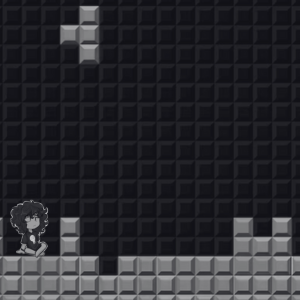
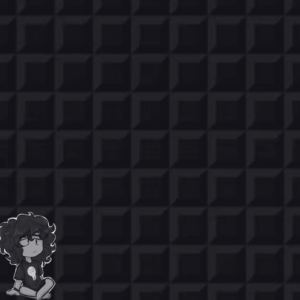
deouracion

Changed region(s): [[0.0, 0.66, 1.0, 1.0], [0.18, 0.0, 0.33, 0.24]]

diff --git a/tetris.py b/tetris.py
@@ -770,7 +770,7 @@ Salida: El juego tetris de forma 'funcional'
 Restricciones: Las necesarias para el correcto funcionamiento
 """
 def ventanaTetris(ventana, nombreArchivo):
-    global tetromino, listaTetrominos
+    global tetromino, listaTetrominos, rotaciones
 
     ventana.destroy()
     consola = Tk()
@@ -795,7 +795,7 @@ def ventanaTetris(ventana, nombreArchivo):
     imagenFondo = ImageTk.PhotoImage(imagenFondo)
 
     imagenFondoTetris = Image.open("fondoTetris.png")
-    imagenFondoTetris = imagenFondoTetris.resize((446, 358))
+    imagenFondoTetris = imagenFondoTetris.resize((446, 335))
     imagenFondoTetris = ImageTk.PhotoImage(imagenFondoTetris)
 
     canvasPantalla = Canvas(canvasGameboy, width=465, height=366, bg="pink")
@@ -842,7 +842,7 @@ def ventanaTetris(ventana, nombreArchivo):
         coordenadas = posicionImagenes()
         listaArchivo = archivoALista(nombreArchivo)
         listaArchivo = eliminarSaltosDeLinea(listaArchivo)
-        canvasPantalla.create_image(19, 8, anchor="nw", image=imagenFondoTetris)
+        canvasPantalla.create_image(19, 16, anchor="nw", image=imagenFondoTetris)
         print(coordenadas[0][0])
         for i in range(largoLista(listaArchivo)):
             for j in range(largoLista(listaArchivo[0])):
@@ -865,7 +865,7 @@ def ventanaTetris(ventana, nombreArchivo):
                 elif listaArchivo[i][j] == "8": 
                      canvasPantalla.create_image(coordenadas[i][j][0], coordenadas[i][j][1], anchor="center", image=listaImagenesBloques[7])
     imprimirArchivoTetris()
-    # matrizIdentificadores = crearMatriz()
+
 
     """
     Nombre: crearTetromino
@@ -1209,6 +1209,38 @@ def ventanaTetris(ventana, nombreArchivo):
                 return True
         return False
     
+    
+    def rotar():
+        if listaTetrominos[0] == 2:
+            return rotarI()
+        elif listaTetrominos[0] == 3:
+            return rotarL()
+        elif listaTetrominos[0] == 4:
+            return rotarJ()
+        elif listaTetrominos[0] == 5:
+            return rotarT()
+        elif listaTetrominos[0] == 6:
+            return rotarZ()
+        else:
+            return rotarU()
+    
+
+    def rotarI():
+                        x2 = x1 + 1
+                x3 = x2  + 1
+                x4 = x3 + 1
+
+                y1 += 2
+                y2 = y1
+                y3 = y1
+                y4 = y1
+                if validarMovimiento(nombreArchivo,tetromino):
+                    canvasPantalla.coords(tetromino[1], coordenadas[x1][y1][0] / 2, coordenadas[x1][y1][1] / 2)
+                    canvasPantalla.coords(tetromino[2], coordenadas[x2][y2][0] / 2, coordenadas[x2][y2][1] / 2)
+                    canvasPantalla.coords(tetromino[3], coordenadas[x3][y3][0] / 2, coordenadas[x3][y3][1] / 2)
+                    canvasPantalla.coords(tetromino[4], coordenadas[x4][y4][0] / 2, coordenadas[x4][y4][1] / 2)
+
+
     consola.bind("<KeyPress-w>", lambda evento: rotar())
     consola.bind("<KeyPress-s>", lambda evento: moverAbajo())
     consola.bind("<KeyPress-d>", lambda evento: moverDerecha()) 
@@ -1216,15 +1248,6 @@ def ventanaTetris(ventana, nombreArchivo):
 
     consola.protocol("WM_DELETE_WINDOW", lambda : borrarArchivo(nombreArchivo, consola))
     consola.mainloop()
-
-    # def rotar(canvasPantalla, tetromino, nombreArchivo): # mejorar
-    #     global rotaciones, x1, x2, x3, x4, x5, y1, y2, y3, y4, y5
-    #     eliminarAntiguaPosicionArchivo(nombreArchivo, tetromino, x1,x2,x3,x4,x5,y1,y2,y3,y4,y5)
-        
-    #     posicionesX = [x1,x2,x3,x4,x5]
-    #     posicionesY = [y1,y2,y3,y4,y5]
-    #     if y1 >= 10 or y2 >= 10 or y3 >= 10 or y4 >= 10 or y5 >= 10:
-    #         return False
     #     coordenadas = posicionImagenes()
     #     if tetromino[0] == 2:
     #         if rotaciones == 1:
